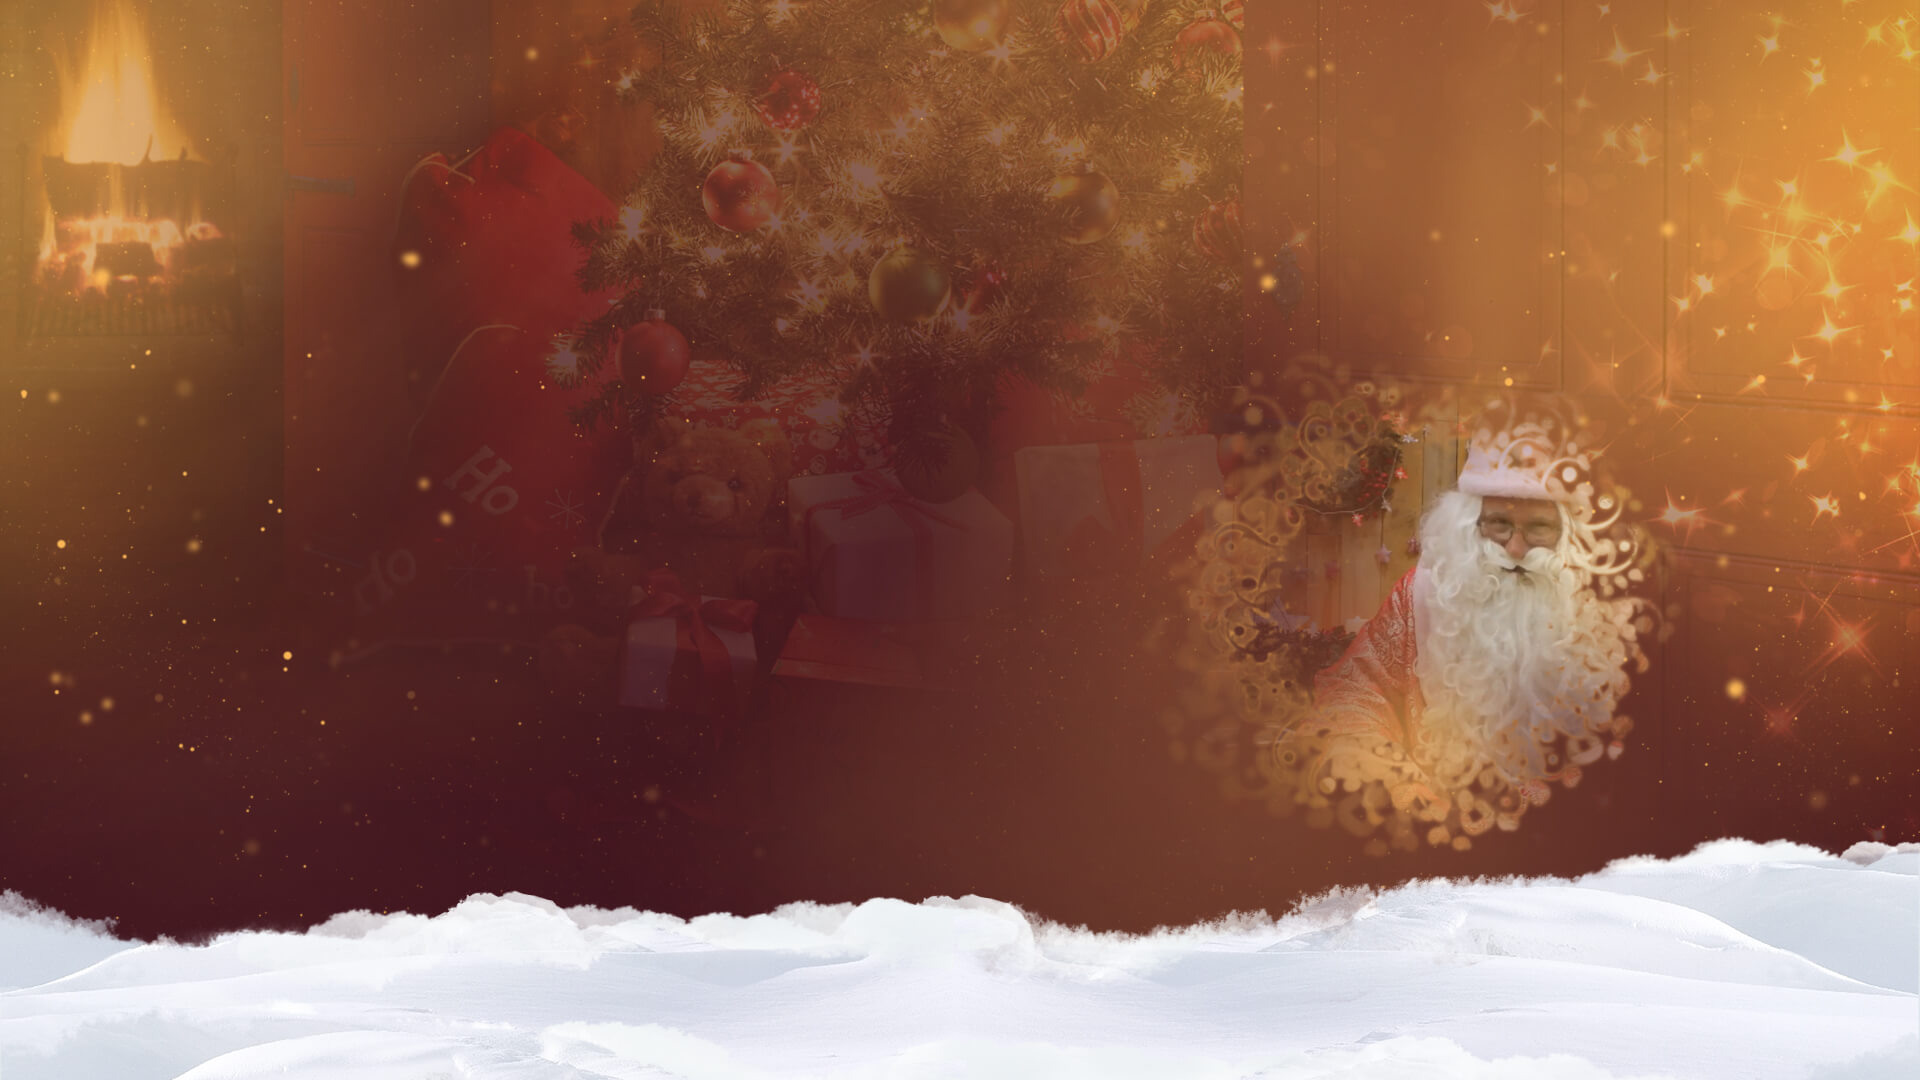
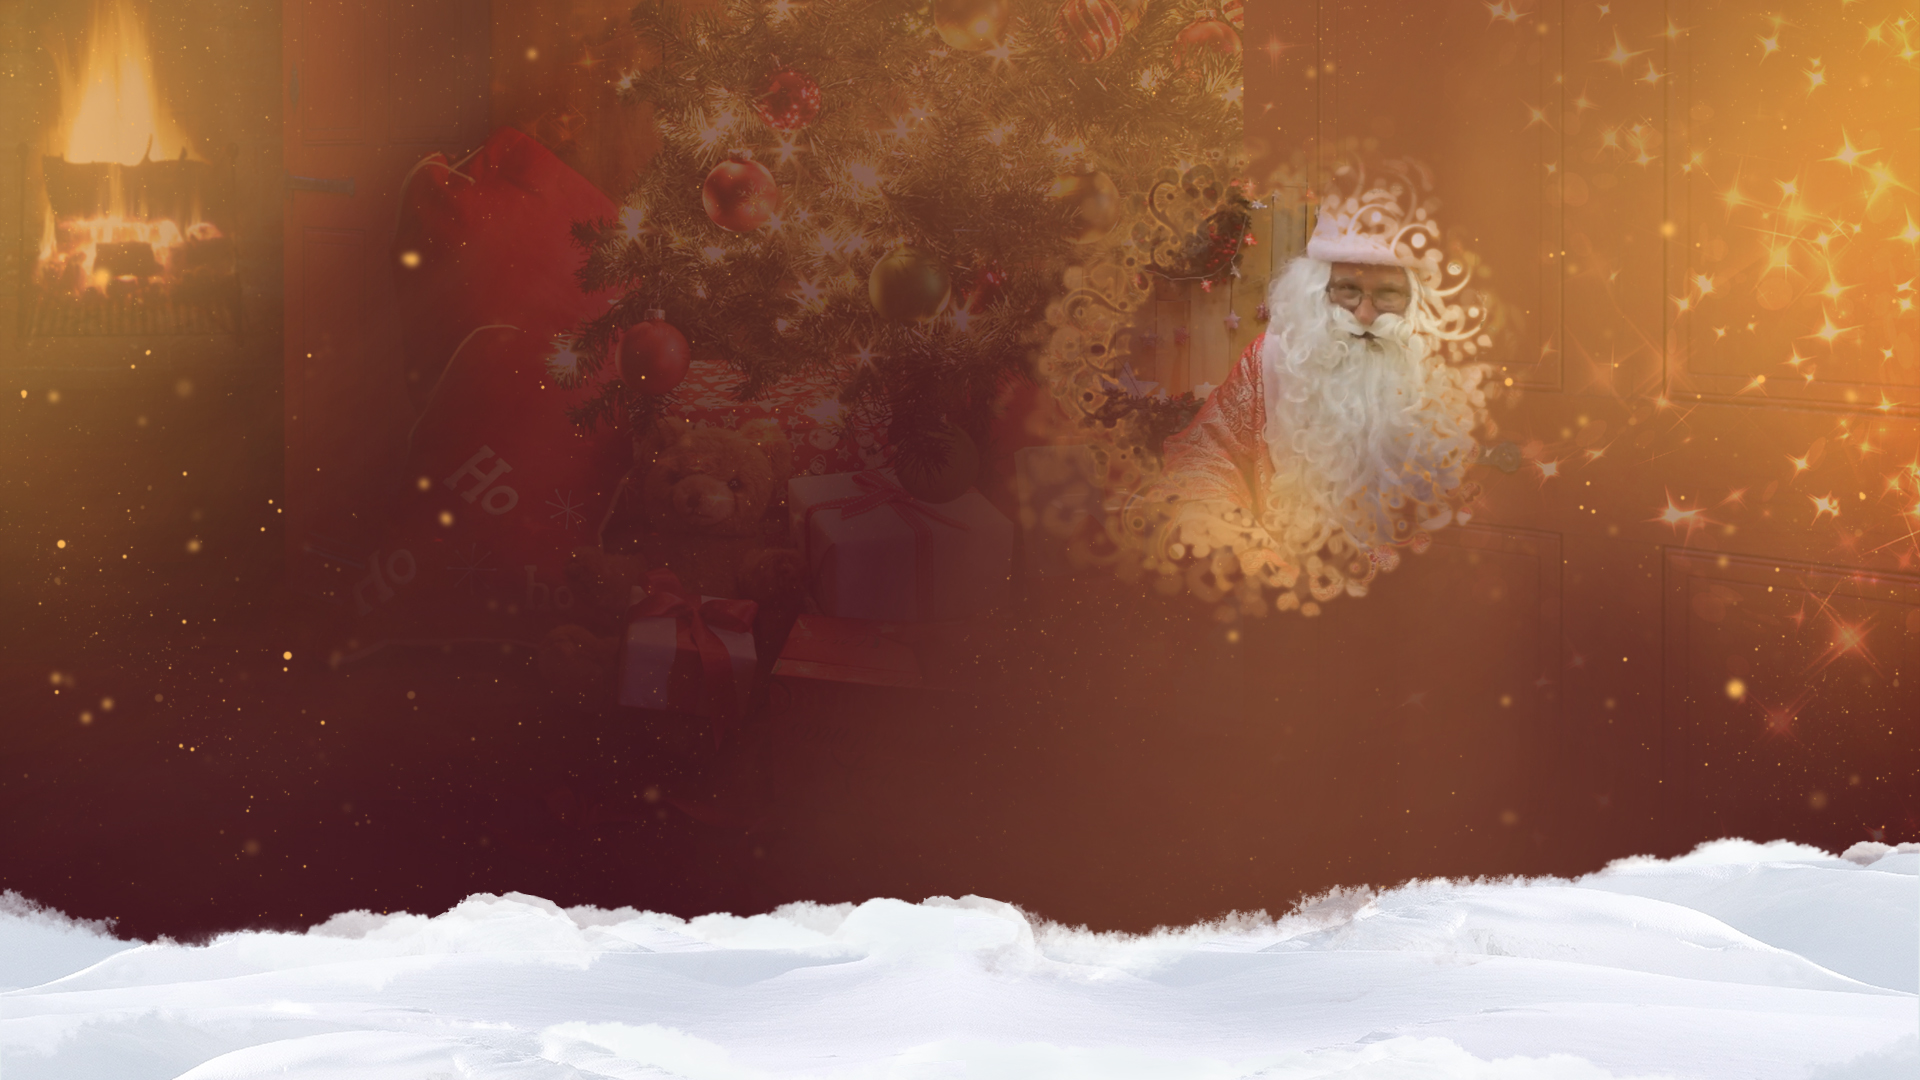
4-5dec main page

Changed region(s): [[0.5312, 0.1528, 0.875, 0.7944]]

diff --git a/app/index.old.html b/app/index.old.html
@@ -85,12 +85,12 @@
               <div class="col-24 col-lg-14 align-self-center">
                 <div class="h-content__box">
                   <h1 class="h-content__title">Удивите своего ребенка видео-поздравлением от Дедушки Мороза!</h1>
-                  <h2 class="h-content__subtitle h-content__subtitle--friday"><span class="h-content__subtitle--span">Только 4-го декабря!</span> В честь дня заказов подарков и написания писем Деду Морозу, <span class="h-content__subtitle--span">дарим скидку 52%!</span></h2>
+                  <h2 class="h-content__subtitle h-content__subtitle--friday"><span class="h-content__subtitle--span">Только 4 и 5 декабря!</span> В честь дня заказов подарков и написания писем Деду Морозу, <span class="h-content__subtitle--span">дарим скидку 52%!</span></h2>
                   <div class="sell">
                     <div class="sell__text">120 <span class="sell__text--span">грн</span></div>
                     <div class="sell__old">250 <span class="sell__old--span">грн</span></div>
                   </div>
-                  <div class="btn-groups text-center text-lg-left"><a class="btn btn--default h-content__btn" href="order.php">оформить заказ со скидкой 52%</a></div>
+                  <div class="btn-groups text-center text-lg-left"><a class="btn btn--default h-content__btn" href="order.php">Оформить заказ со скидкой 52%</a></div>
                 </div>
               </div>
               <div class="col-24 col-lg-10 header-friday__col">
@@ -100,8 +100,26 @@
           </div>
         </div>
       </section>
+      <section class="video">
+        <div class="video__bg"></div>
+        <div class="container">        
+          <div class="row justify-content-center">
+            <div class="col-24 col-lg-20">
+              <div class="video__movie vd-video"><img class="img-fluid vd-video__img" src="img/video.png" alt="Видео-фон">
+                <div class="vd-video__descr">
+                  <div class="row align-items-center">
+                    <div class="col-24 col-md-12 text-center"><a class="vd-video__play mp-play" data-toggle="modal" href="#video__modal"><i class="fa fa-play mp-play__icon" aria-hidden="true"> </i></a></div>
+                    <div class="col-24 col-md-12 hidden-sm-down d-none d-md-block text-md-left">
+                      <div class="vd-video__text gg-text gg-text--white">Узнайте что такое <br class="d-lg-none">видео поздравление <br class="d-lg-none">от Дедушки <nobr>Мороза 2 минуты</nobr></div>
+                    </div>
+                  </div>
+                </div>
+              </div>
+            </div>
+          </div>
+        </div>
+      </section>
     </header>
-    <div class="sugrob"></div>
     <main class="main">
       <article class="split split--1">
         <section class="about">
@@ -568,8 +586,7 @@
                   <div class="row">
                     <div class="col-24 col-lg-10 d-flex align-items-center">
                       <div class="gift__box">
-                        <div class="gift__text">4-го декабря дарим скидку,<br/> 52% В честь дня заказов подарков и написания писем Деду Морозу</div>
-                        <div class="gift__image"> <i class="ic ic--percent"></i></div>
+                        <div class="gift__text">Только 4 и 5 декабря дарим скидку,<br/> 52% В честь дня заказов подарков и написания писем Деду Морозу</div>
                       </div>
                     </div>
                     <div class="col-24 col-lg-14">       
@@ -942,7 +959,7 @@
           </button>
           <div class="modal-body modal__body">
             <div class="modal__iframe">
-              <iframe class="modal__iframe" src="https://www.youtube.com/embed/kg-qEHftDd8" frameborder="0" gesture="media" allowfullscreen></iframe>
+              <iframe class="modal__iframe" src="https://www.youtube.com/embed/lLgW4wR1vQQ" frameborder="0" gesture="media" allowfullscreen></iframe>
             </div>
           </div>
         </div>

diff --git a/app/index.html b/app/index.html
@@ -87,7 +87,7 @@
               </div>
               <div class="col-24 col-lg-16 align-self-center">
                 <div class="h-content__box">
-                  <h2 class="h-content__subtitle"><span class="h-content__subtitle--span">Только 4-го декабря!</span> В честь дня заказов подарков и написания писем Деду Морозу, <span class="h-content__subtitle--span">дарим скидку 52%!</span></h2>
+                  <h2 class="h-content__subtitle"><span class="h-content__subtitle--span">Только 4 и 5 декабря!</span> В честь дня заказов подарков и написания писем Деду Морозу, <span class="h-content__subtitle--span">дарим скидку 52%!</span></h2>
                   <h1 class="h-content__title">Удивите своего ребенка видео-поздравлением от Дедушки Мороза!</h1>
                   <div class="row justify-content-center justify-content-lg-start">
                     <div class="col-24 col-md-18 col-lg-24"> 
@@ -942,7 +942,7 @@
           </button>
           <div class="modal-body modal__body">
             <div class="modal__iframe">
-              <iframe class="modal__iframe" src="https://www.youtube.com/embed/kg-qEHftDd8" frameborder="0" gesture="media" allowfullscreen></iframe>
+              <iframe class="modal__iframe" src="https://www.youtube.com/embed/lLgW4wR1vQQ" frameborder="0" gesture="media" allowfullscreen></iframe>
             </div>
           </div>
         </div>

diff --git a/app/js/main.js b/app/js/main.js
@@ -190,11 +190,11 @@ Raven.context(function () {
     });
 
     $('#video__modal').on('shown.bs.modal', function() {
-      $("#video__modal .modal__iframe").attr('src', 'https://www.youtube.com/embed/kg-qEHftDd8?ecver=1&autoplay=1&showinfo=0&mute=0&iv_load_policy=3&showsearch=0');
+      $("#video__modal .modal__iframe").attr('src', 'https://www.youtube.com/embed/lLgW4wR1vQQ?ecver=1&autoplay=1&showinfo=0&mute=0&iv_load_policy=3&showsearch=0');
     });
 
     $('#video__modal').on('hidden.bs.modal', function() {
-      $("#video__modal .modal__iframe").attr('src', 'https://www.youtube.com/embed/kg-qEHftDd8?ecver=1&autoplay=0&showinfo=0&mute=1&iv_load_policy=3&showsearch=0');
+      $("#video__modal .modal__iframe").attr('src', 'https://www.youtube.com/embed/lLgW4wR1vQQ?ecver=1&autoplay=0&showinfo=0&mute=1&iv_load_policy=3&showsearch=0');
     });
     
     // Tabs

diff --git a/app/indexb.html b/app/indexb.html
@@ -981,7 +981,7 @@
           </button>
           <div class="modal-body modal__body">
             <div class="modal__iframe">
-              <iframe class="modal__iframe" src="https://www.youtube.com/embed/kg-qEHftDd8" frameborder="0" gesture="media" allowfullscreen></iframe>
+              <iframe class="modal__iframe" src="https://www.youtube.com/embed/lLgW4wR1vQQ" frameborder="0" gesture="media" allowfullscreen></iframe>
             </div>
           </div>
         </div>

diff --git a/app/indexc.html b/app/indexc.html
@@ -937,7 +937,7 @@
           </button>
           <div class="modal-body modal__body">
             <div class="modal__iframe">
-              <iframe class="modal__iframe" src="https://www.youtube.com/embed/kg-qEHftDd8" frameborder="0" gesture="media" allowfullscreen></iframe>
+              <iframe class="modal__iframe" src="https://www.youtube.com/embed/lLgW4wR1vQQ" frameborder="0" gesture="media" allowfullscreen></iframe>
             </div>
           </div>
         </div>

diff --git a/app/order.html b/app/order.html
@@ -331,7 +331,7 @@
           </button>
           <div class="modal-body modal__body">
             <div class="modal__iframe">
-              <iframe class="modal__iframe" src="https://www.youtube.com/embed/kg-qEHftDd8" frameborder="0" gesture="media" allowfullscreen></iframe>
+              <iframe class="modal__iframe" src="https://www.youtube.com/embed/lLgW4wR1vQQ" frameborder="0" gesture="media" allowfullscreen></iframe>
             </div>
           </div>
         </div>

diff --git a/app/css/style.css b/app/css/style.css
@@ -4185,19 +4185,13 @@ button:focus {
 
 @media only screen and (min-width: 992px) {
   .header-friday {
-    background-position: 50% center;
+    background-position: 55% center;
   }
 }
 
 @media only screen and (min-width: 1200px) {
   .header-friday {
-    background-position: 10% center;
-  }
-}
-
-@media only screen and (min-width: 1366px) {
-  .header-friday {
-    background-position: 0 center;
+    background-position: 51% center;
   }
 }
 

diff --git a/app/sass/pages/_main.sass b/app/sass/pages/_main.sass
@@ -1649,13 +1649,10 @@ button
     width: 100%
 +r(992)
   .header-friday
-    background-position: 50% center
+    background-position: 55% center
 +r(1200)
   .header-friday
-    background-position: 10% center
-+r(1366)  
-  .header-friday
-    background-position: 0 center       
+    background-position: 51% center      
 .header__box--friday
   position: relative
   z-index: 21
